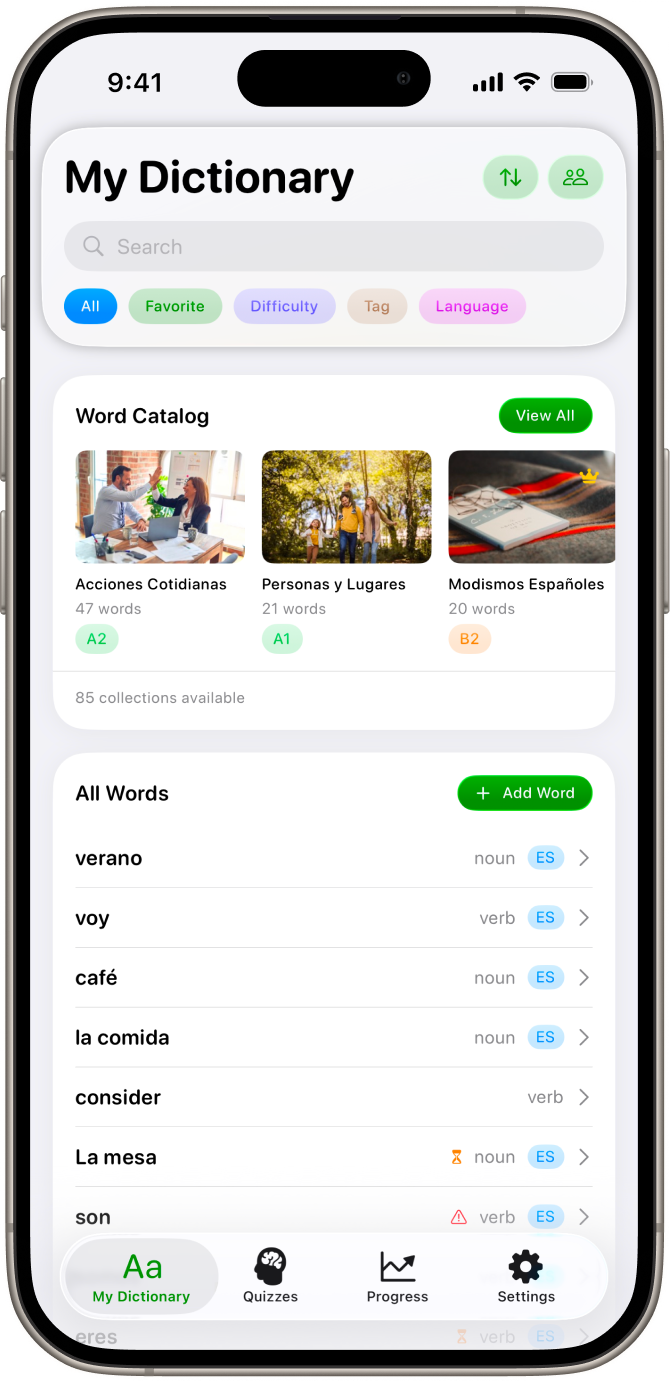
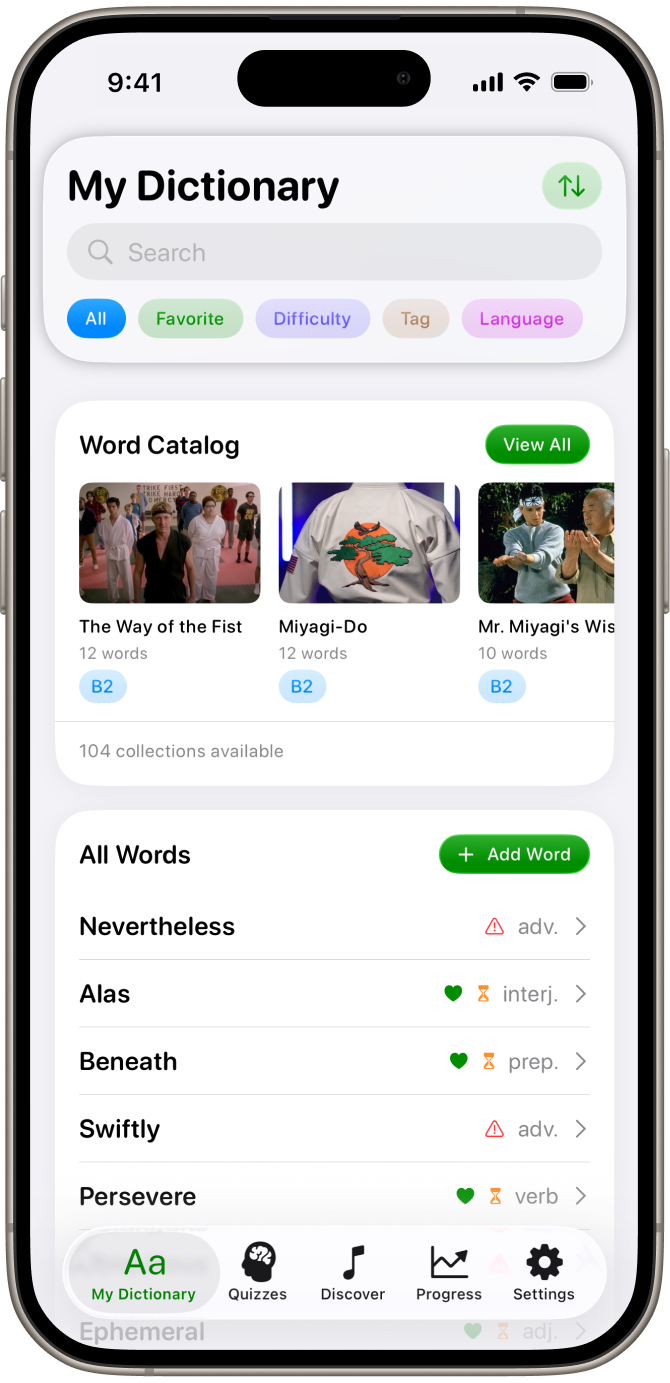
Update screenshots

diff --git a/index.html b/index.html
@@ -57,7 +57,7 @@
             </p>
             <div class="cta-buttons fade-in-up">
                 <a href="#download" class="cta-button">
-                    Download Free
+                    Download For Free
                 </a>
                 <a href="#how-it-works" class="cta-button secondary">
                     Learn More
@@ -178,9 +178,9 @@
             
             <div style="text-align: center; margin-top: 3rem;">
                 <p style="font-size: 1.2rem; color: #495057; margin-bottom: 1.5rem;">
-                    Ready to start? Download free and learn your first song today.
+                    Ready to start? Download for free and learn your first song today.
                 </p>
-                <a href="#download" class="cta-button">Download Free</a>
+                <a href="#download" class="cta-button">Download For Free</a>
             </div>
         </div>
     </section>
@@ -324,15 +324,17 @@
         </div>
     </section>
 
-    <!-- Screenshots Section -->
+    <!-- iOS Screenshots Section -->
     <section id="screenshots" class="screenshots">
         <div class="container">
             <div class="section-header">
-                <h2>See My Dictionary in Action</h2>
-                <p>Beautiful, intuitive interface designed for effective vocabulary learning.</p>
+                <h2>iOS Experience</h2>
+                <p>Beautiful, intuitive interface designed for effective vocabulary learning on iPhone and iPad.</p>
             </div>
-            
-            <div class="screenshots-grid">
+        </div>
+        
+        <div class="screenshots-horizontal-wrapper">
+            <div class="screenshots-horizontal">
                 <div class="screenshot-card">
                     <img src="images/screenshot-ios-main.png" alt="iOS Main Screen" class="screenshot-image" onerror="this.style.display='none'; this.nextElementSibling.style.display='flex';">
                     <div class="screenshot-info">
@@ -342,10 +344,26 @@
                 </div>
                 
                 <div class="screenshot-card">
-                    <img src="images/screenshot-macos-interface.png" alt="macOS Interface" class="screenshot-image" onerror="this.style.display='none'; this.nextElementSibling.style.display='flex';">
+                    <img src="images/screenshot-music-main.png" alt="Music Learning Main Screen" class="screenshot-image" onerror="this.style.display='none'; this.nextElementSibling.style.display='flex';">
                     <div class="screenshot-info">
-                        <h3>Powerful Desktop Experience</h3>
-                        <p>Full-featured macOS app with advanced editing, sidebar navigation, and seamless sync with your mobile devices</p>
+                        <h3>Learn Through Music</h3>
+                        <p>Choose your favorite songs and turn them into engaging language lessons. Browse your music library and start learning vocabulary through the songs you love</p>
+                    </div>
+                </div>
+                
+                <div class="screenshot-card">
+                    <img src="images/screenshot-music-lyrics.png" alt="Music Lyrics Learning" class="screenshot-image" onerror="this.style.display='none'; this.nextElementSibling.style.display='flex';">
+                    <div class="screenshot-info">
+                        <h3>Learn Vocabulary in Context</h3>
+                        <p>See lyrics with highlighted vocabulary, understand words in context, and learn how native speakers actually use language through real song lyrics</p>
+                    </div>
+                </div>
+                
+                <div class="screenshot-card">
+                    <img src="images/screenshot-music-lesson.png" alt="Music Lesson Interface" class="screenshot-image" onerror="this.style.display='none'; this.nextElementSibling.style.display='flex';">
+                    <div class="screenshot-info">
+                        <h3>Interactive Music Lessons</h3>
+                        <p>Complete 5-stage learning flow from pre-listen to quiz. Learn vocabulary naturally through repetition, context, and emotional connection with music</p>
                     </div>
                 </div>
                                 
@@ -378,6 +396,50 @@
                     <div class="screenshot-info">
                         <h3>Personalized Learning Settings</h3>
                         <p>Customize your experience with smart notifications, TTS voices, study reminders, and learning preferences</p>
+                    </div>
+                </div>
+            </div>
+        </div>
+    </section>
+
+    <!-- macOS Screenshots Section -->
+    <section class="screenshots" style="background: white;">
+        <div class="container">
+            <div class="section-header">
+                <h2>macOS Experience</h2>
+                <p>Powerful desktop experience with advanced features and seamless sync.</p>
+            </div>
+            
+            <div class="screenshots-grid macos">
+                <div class="screenshot-card">
+                    <img src="images/screenshot-macos-interface.png" alt="macOS Interface" class="screenshot-image" onerror="this.style.display='none'; this.nextElementSibling.style.display='flex';">
+                    <div class="screenshot-info">
+                        <h3>Powerful Desktop Experience</h3>
+                        <p>Full-featured macOS app with advanced editing, sidebar navigation, and seamless sync with your mobile devices</p>
+                    </div>
+                </div>
+                
+                <div class="screenshot-card">
+                    <img src="images/screenshot-macos-music.png" alt="macOS Music Learning" class="screenshot-image" onerror="this.style.display='none'; this.nextElementSibling.style.display='flex';">
+                    <div class="screenshot-info">
+                        <h3>Music Learning on Desktop</h3>
+                        <p>Enjoy music-based learning on your Mac with a larger screen for better visibility of lyrics and vocabulary</p>
+                    </div>
+                </div>
+                
+                <div class="screenshot-card">
+                    <img src="images/screenshot-macos-music-lesson.png" alt="macOS Music Lesson" class="screenshot-image" onerror="this.style.display='none'; this.nextElementSibling.style.display='flex';">
+                    <div class="screenshot-info">
+                        <h3>Interactive Music Lessons</h3>
+                        <p>Complete music lessons with enhanced interface, better navigation, and comprehensive learning tools</p>
+                    </div>
+                </div>
+                
+                <div class="screenshot-card">
+                    <img src="images/screenshot-macos-quiz.png" alt="macOS Quiz Interface" class="screenshot-image" onerror="this.style.display='none'; this.nextElementSibling.style.display='flex';">
+                    <div class="screenshot-info">
+                        <h3>Advanced Quiz Experience</h3>
+                        <p>Take quizzes with a full desktop interface, better keyboard support, and enhanced feedback</p>
                     </div>
                 </div>
             </div>
@@ -492,7 +554,7 @@
                         <li>✓ Basic analytics</li>
                         <li>✓ 50-word export limit</li>
                     </ul>
-                    <a href="#download" class="pricing-button">Download Free</a>
+                    <a href="#download" class="pricing-button">Download For Free</a>
                 </div>
                 
                 <div class="pricing-card featured">

diff --git a/css/styles.css b/css/styles.css
@@ -559,9 +559,80 @@ body {
 
 .screenshots-grid {
     display: grid;
-    grid-template-columns: repeat(auto-fit, minmax(300px, 1fr));
+    grid-template-columns: repeat(2, 1fr);
     gap: 2rem;
     margin-top: 3rem;
+}
+
+.screenshots-grid.macos {
+    max-width: 1200px;
+    margin: 3rem auto 0;
+}
+
+.screenshots-grid.macos .screenshot-card {
+    overflow: visible;
+    padding: 2rem;
+    background: white;
+    display: flex;
+    flex-direction: column;
+    align-items: center;
+    justify-content: flex-start;
+    min-height: 0;
+    width: 100%;
+    max-width: 100%;
+    box-sizing: border-box;
+}
+
+.screenshots-grid.macos .screenshot-image {
+    width: 100% !important;
+    height: auto !important;
+    max-width: 100% !important;
+    max-height: 500px !important;
+    object-fit: contain !important;
+    object-position: center;
+    border-radius: 0;
+    padding: 0;
+    display: block;
+    margin: 0 auto;
+}
+
+.screenshots-horizontal-wrapper {
+    width: 100%;
+    overflow-x: auto;
+    margin-top: 3rem;
+    -webkit-overflow-scrolling: touch;
+}
+
+.screenshots-horizontal-wrapper::-webkit-scrollbar {
+    height: 8px;
+}
+
+.screenshots-horizontal-wrapper::-webkit-scrollbar-track {
+    background: #f1f1f1;
+    border-radius: 10px;
+}
+
+.screenshots-horizontal-wrapper::-webkit-scrollbar-thumb {
+    background: #28a745;
+    border-radius: 10px;
+}
+
+.screenshots-horizontal-wrapper::-webkit-scrollbar-thumb:hover {
+    background: #20c997;
+}
+
+.screenshots-horizontal {
+    display: flex;
+    gap: 2rem;
+    padding: 1rem 2rem 2rem;
+    scroll-snap-type: x mandatory;
+    width: max-content;
+    min-width: 100%;
+}
+
+.screenshots-horizontal .screenshot-card {
+    flex: 0 0 400px;
+    scroll-snap-align: start;
 }
 
 .screenshot-card {
@@ -595,6 +666,14 @@ body {
     border-radius: 10px 10px 0 0;
     padding: 16px;
     box-sizing: border-box;
+}
+
+.screenshots-grid.macos .screenshot-image {
+    height: auto;
+    max-height: none;
+    object-fit: none;
+    padding: 0;
+    border-radius: 0;
 }
 
 .screenshot-info {
@@ -997,6 +1076,14 @@ body {
 
     .screenshots-grid {
         grid-template-columns: 1fr;
+    }
+    
+    .screenshots-horizontal {
+        padding: 1rem 1.5rem 2rem;
+    }
+    
+    .screenshots-horizontal .screenshot-card {
+        flex: 0 0 320px;
     }
 
     .pricing-grid {
